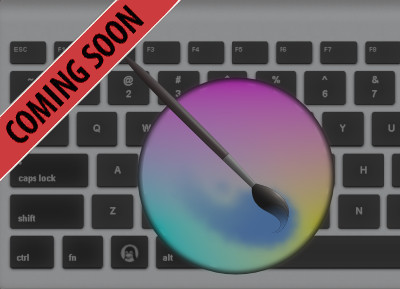
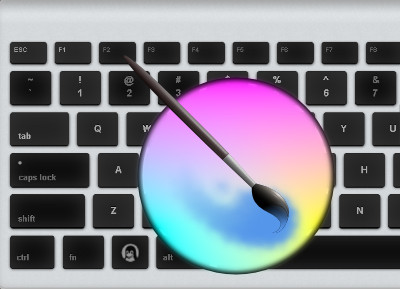
upload krita keyboard

diff --git a/_includes/content.html b/_includes/content.html
@@ -3,8 +3,17 @@
 	  <div class="thumbcontent">
 		<div class="container">
 			<div class="thumbnail">
-				<img src="{{ site.baseurl }}/images/pic_krita.jpg"  width="300px" height="220px" alt="">
-				<h2>Krita</h2>
+				<img src="{{ site.baseurl }}/images/pic_mypaint.jpg"  width="300px" height="220px" alt="">
+				<h2>Mypaint</h2>
+			</div> 
+			<div class="thumbnail">
+				{% if page.lang == "pt" %}
+					<a href="{{site.baseurl }}/pt/apps/krita"><img src="{{ site.baseurl }}/images/pic_krita.jpg"  width="300px" height="220px" alt="">
+					<h2>Krita</h2>
+				{% else site.lang == "en" %}
+					<a  href="{{ site.baseurl }}/apps/krita" ><img src="{{ site.baseurl }}/images/pic_krita.jpg"  width="300px" height="220px" alt=""></a>
+					<h2 >Krita</h2>
+  				{% endif %}
 			</div> 
 			<div class="thumbnail thumbnail-on">
 				{% if page.lang == "pt" %}
